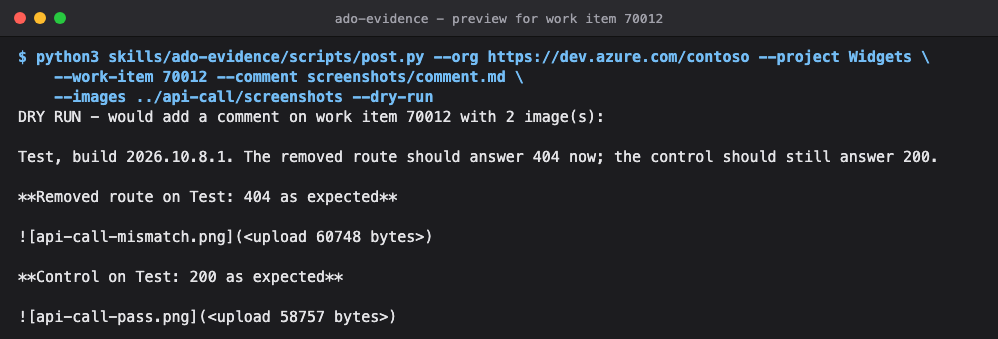
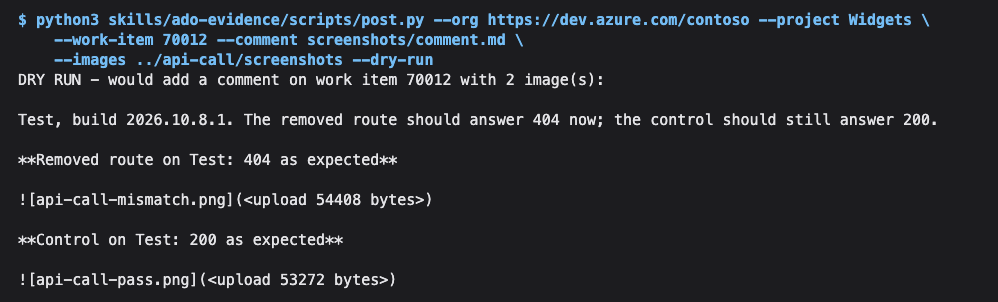
Draw screenshots with no title bar unless --frame asks for one
The window chrome on an api-call screenshot was decoration: the image is
drawn from the record, not captured from a window, and the bar made it
look like a screenshot of one system's window. A screenshot is now the
terminal's content alone. --frame native adds the title bar of the
system the capture is taken on, and --frame windows, mac or linux adds
that one wherever it runs. 0.2.7's --frame auto is gone; native does
what it did.

With no title bar to carry it, a label given with --label opens the
image as its first line; the default label, the environment's name, is
shown in the body already. The mod screenshots in tools/screenshots keep
their title bar, since they are real terminal sessions.

api-call 0.2.8, ado-evidence 0.1.6, whose demo has no title bar either.
Tests: api-call 264, ado-evidence 54, context-bar 100.

Claude-Session: https://claude.ai/code/session_01RRQNu8KybTM94LYvT61M9Z

diff --git a/skills/api-call/skills/api-call/scripts/frame.html b/skills/api-call/skills/api-call/scripts/frame.html
@@ -1,10 +1,11 @@
-<!doctype html><!-- The terminal window frame. The title placeholder takes the escaped title, the body placeholder the HTML inside the pre: lines joined by line breaks, or one element of class row per line, which render.py draws. The look placeholder takes mac, windows or linux: the window's title bar and fonts, drawn as that system draws a dark terminal window. Every look's bar is 36px with a 1px border, so a capture is 37px of title bar, 22px of padding and 20px per row in each, as tools/screenshots/render.mjs counts them. The title, the pre and every row are drawn left to right in the order their characters are written, so no right-to-left letter can reorder them; the title and a row are cut with an ellipsis where they overflow, and a row is clipped to its 20px, so nothing drawn in one can reach another. --><meta charset="utf-8"><style>
+<!doctype html><!-- The terminal window frame. The title placeholder takes the escaped title, the body placeholder the HTML inside the pre: lines joined by line breaks, or one element of class row per line, which render.py draws. The look placeholder takes none, mac, windows or linux. none draws no title bar, only the terminal's content; the others draw the title bar and fonts of that system's dark terminal window. Their bar is 36px with a 1px border, so a capture is 37px of title bar (0 with none), 22px of padding and 20px per row, as render.py and tools/screenshots/render.mjs count them. The title, the pre and every row are drawn left to right in the order their characters are written, so no right-to-left letter can reorder them; the title and a row are cut with an ellipsis where they overflow, and a row is clipped to its 20px, so nothing drawn in one can reach another. --><meta charset="utf-8"><style>
 html,body{margin:0;background:#1c1c1f}
 .bar{height:36px;display:flex;align-items:center;position:relative;background:#2a2a2e;border-bottom:1px solid #111}
 .title{flex:1;min-width:0;color:#a1a1aa;font:13px "SF Mono",Menlo,"Cascadia Mono",Consolas,monospace;white-space:pre;overflow:hidden;text-overflow:ellipsis;direction:ltr;unicode-bidi:bidi-override}
 pre{margin:0;padding:10px 18px 12px;color:#e4e4e7;font:15px/20px "SF Mono",Menlo,"Cascadia Mono",Consolas,monospace;white-space:pre;direction:ltr;unicode-bidi:bidi-override}
 .row{display:block;height:20px;overflow:hidden;text-overflow:ellipsis;direction:ltr;unicode-bidi:bidi-override}
 .dots,.controls{display:none}
+.none .bar{display:none}
 .controls i{display:block;position:relative}
 .mac .dots{display:flex;position:absolute;left:14px;gap:8px}.mac .dots i{width:12px;height:12px;border-radius:50%;display:block}
 .mac .title{padding:0 80px;text-align:center}

diff --git a/skills/api-call/tests/test_render.py b/skills/api-call/tests/test_render.py
@@ -131,7 +131,7 @@ class DisplayWidth(unittest.TestCase):
             # 60 characters by len(), 120 cells: not clipped, and twice as wide as len() would make it.
             rows = render.rows({**RECORD, "body": "日" * 60})
             _, browser = drawn({**RECORD, "body": "日" * 60}, Path(tmp) / "cjk.png")
-            self.assertEqual(browser.window(), (round(120 * 9.2) + 60, 37 + 22 + len(rows) * 20))
+            self.assertEqual(browser.window(), (round(120 * 9.2) + 60, 22 + len(rows) * 20))  # no title bar by default
             _, browser = drawn(RECORD, Path(tmp) / "plain.png")
             self.assertEqual(browser.window()[0], 720)
             _, browser = drawn({**RECORD, "body": "日" * 200}, Path(tmp) / "wide.png")
@@ -525,7 +525,7 @@ class Round3Driver(unittest.TestCase):
             page = (Path(tmp) / "r.html").read_text(encoding="utf-8")
         self.assertIn('<div class="title">E2E {{body}} - GET /repos/x/y/languages</div>', page)
         self.assertEqual(page.count("the body {{title}}"), 1)
-        self.assertEqual(page.count('class="row"'), len(render.rows(record)))
+        self.assertEqual(page.count('class="row"'), len(render.drawn_rows(record)))  # the label opens the image
 
     def test_driver_each_row_is_a_block_of_its_own(self):
         self.assertEqual(render.markup([("dim", "a <b>"), (None, ""), ("bad", "x & y")]),
@@ -662,28 +662,49 @@ MEASURE = """<script>(() => {
 
 
 class WindowFrame(unittest.TestCase):
-    """The capture's window frame follows the system it is taken on, unless --frame names one: a screenshot taken on
-    Windows used to draw the macOS frame, traffic-light dots and all."""
+    """--frame: by default no title bar, only the terminal's content; native draws the title bar of the system the
+    capture is taken on; mac, windows or linux name one. A screenshot taken on Windows used to draw the macOS frame."""
 
-    def test_auto_follows_the_system(self):
+    def test_no_title_bar_unless_asked(self):
+        self.assertEqual(render.look_for(), "none")
+        self.assertEqual(render.look_for("none"), "none")
+
+    def test_native_follows_the_system(self):
         for platform, look in (("win32", "windows"), ("cygwin", "windows"), ("darwin", "mac"), ("linux", "linux")):
             with self.subTest(platform=platform), patch.object(render.sys, "platform", platform):
-                self.assertEqual(render.look_for(), look)
-                self.assertEqual(render.look_for("auto"), look)
+                self.assertEqual(render.look_for("native"), look)
 
     def test_a_named_frame_is_used_and_an_unknown_one_refused(self):
         for look in render.LOOKS:
             self.assertEqual(render.look_for(look), look)
-        with self.assertRaises(render.Problem):
-            render.look_for("beos")
+        for bad in ("beos", "auto", ""):
+            with self.subTest(bad=bad), self.assertRaises(render.Problem):
+                render.look_for(bad)
 
     def test_each_look_fills_the_frame(self):
-        for look in render.LOOKS:
+        for look in ("none",) + render.LOOKS:
             with self.subTest(look=look):
                 page = render.page("A {{look}} title", "<span>body</span>", look)
                 self.assertIn(f'<div class="window {look}">', page)
                 self.assertIn("A {{look}} title", page)  # a placeholder in the title is drawn as text
                 self.assertEqual(page.count("{{"), 1)
+
+    def test_only_a_title_bar_adds_to_the_height(self):
+        drawn = render.rows(RECORD)
+        self.assertEqual(render.size(drawn, "none")[1], render.PADDING + len(drawn) * render.ROW)
+        for look in render.LOOKS:
+            self.assertEqual(render.size(drawn, look)[1], render.TITLE_BAR + render.PADDING + len(drawn) * render.ROW)
+
+    def test_with_no_title_bar_a_label_or_title_opens_the_image(self):
+        plain = render.rows(RECORD)
+        labelled = {**RECORD, "label": "Before: Prod (current release)"}
+        self.assertEqual(render.drawn_rows(labelled), [("head", "Before: Prod (current release)")] + plain)
+        self.assertEqual(render.drawn_rows(RECORD, "A title of my own")[0], ("head", "A title of my own"))
+        # the default label is the environment's name, which the image shows already
+        self.assertEqual(render.drawn_rows({**RECORD, "label": RECORD["environment"]}), plain)
+        self.assertEqual(render.drawn_rows(RECORD), plain)
+        # with a title bar, the label is the bar's title and not a line
+        self.assertEqual(render.drawn_rows(labelled, look="mac"), plain)
 
 class InTheBrowser(unittest.TestCase):
     """Round 3: what the browser draws from the page render() writes, checked in the real browser, since only it can
@@ -733,12 +754,12 @@ class InTheBrowser(unittest.TestCase):
         return laid
 
     def test_each_frame_keeps_the_bar_height_and_places_its_title(self):
-        # Every look's bar is 37px, so the rows sit where size() counts them; the Windows title starts at the left, as
-        # Windows draws it, and the macOS and Linux titles are centred.
+        # A title bar is 37px in every look and none has no bar, so the rows sit where size() counts them. The Windows
+        # title starts at the left, as Windows draws it; the macOS and Linux titles are centred.
         title = "Frame check - GET /x"
+        record = {**RECORD, "label": "Frame check", "path": "/x"}
         for look in render.LOOKS:
             with self.subTest(look=look):
-                record = {**RECORD, "label": "Frame check", "path": "/x"}
                 laid = self.measure(record, f"frame-{look}", [title], look)
                 self.assertEqual(laid["rows"][0]["top"], render.TITLE_BAR + 10)
                 left = laid["at"][title]["lefts"][0]
@@ -746,6 +767,9 @@ class InTheBrowser(unittest.TestCase):
                     self.assertLess(left, 40)
                 else:
                     self.assertGreater(left, 80)
+        laid = self.measure(record, "frame-none", [], "none")
+        self.assertEqual(laid["rows"][0]["top"], 10)
+        self.assertEqual(laid["rows"][0]["text"], "Frame check")
 
     def test_driver_each_row_is_a_clipped_block_of_one_row(self):
         record = {**RECORD, "body": WIDE_LINES[0] + "\nnext"}
@@ -755,7 +779,7 @@ class InTheBrowser(unittest.TestCase):
             with self.subTest(row=i):
                 self.assertEqual(row["text"], text)
                 self.assertEqual(row["display"], "block")
-                self.assertEqual((row["top"], row["height"]), (render.TITLE_BAR + 10 + i * render.ROW, render.ROW))
+                self.assertEqual((row["top"], row["height"]), (render.bar("none") + 10 + i * render.ROW, render.ROW))
                 self.assertEqual((row["overflowX"], row["overflowY"], row["textOverflow"]), ("hidden", "hidden", "ellipsis"))
                 self.assertEqual((row["bidi"], row["direction"]), ("bidi-override", "ltr"))
                 self.assertLessEqual(row["right"], laid["width"] - 18)  # inside the window and its padding
@@ -781,7 +805,7 @@ class InTheBrowser(unittest.TestCase):
                    "\u0627\u0644\u0639\u062f\u062f \u0661\u0662\u0663 = 123", "\u05d1\u05d3\u05d9\u05e7\u05d4 1 2 - GET"]
         record = {**RECORD, "label": "\u05d1\u05d3\u05d9\u05e7\u05d4 1 2", "body": '{"\u05d0": 1, "amount": "\u05d1 100 200"}',
                   "response_headers": {"X-Note": targets[2], "X-Arabic": targets[3]}}
-        laid = self.measure(record, "bidi", targets)
+        laid = self.measure(record, "bidi", targets, "mac")  # a title bar, so the title is drawn and checked too
         for target in targets:
             with self.subTest(target=target):
                 lefts = laid["at"][target]["lefts"]
@@ -796,7 +820,7 @@ class InTheBrowser(unittest.TestCase):
         (tall_png, tall_size), (flat_png, flat_size) = self.shoot(tall, "tall"), self.shoot(flat, "flat")
         self.assertEqual(tall_size, flat_size)
         a, b = png_rows(tall_png.read_bytes()), png_rows(flat_png.read_bytes())
-        top = render.TITLE_BAR + 10 + k * render.ROW
+        top = render.bar("none") + 10 + k * render.ROW
         self.assertEqual([y for y in range(len(a)) if not top <= y < top + render.ROW and a[y] != b[y]], [])
         self.assertNotEqual(a[top:top + render.ROW], b[top:top + render.ROW])  # the marks are drawn, in their row
 

diff --git a/skills/api-call/skills/api-call/scripts/render.py b/skills/api-call/skills/api-call/scripts/render.py
@@ -1,7 +1,7 @@
 """Draws an api-call record in the terminal window frame and captures it with headless Chrome.
 
 Usage:
-  python3 render.py RECORD.json [--out FILE.png] [--title TEXT] [--frame auto|mac|windows|linux]
+  python3 render.py RECORD.json [--out FILE.png] [--title TEXT] [--frame none|native|mac|windows|linux]
 
 Writes the image and, beside it, the .html page it was captured from; the default name is the record's with .png.
 The frame is frame.html next to this script, which tools/screenshots in this repository shares.
@@ -15,7 +15,7 @@ FRAME = HERE / "frame.html"
 TITLE_BAR, PADDING, ROW = 37, 22, 20  # pixels: what a capture's height is made of
 CELL, MARGIN, MIN_WIDTH, MAX_WIDTH = 9.2, 60, 720, 1600  # pixels: a monospace cell, and what a capture's width is made of
 WIDTH, LINES = 150, 40  # cells a row is cut to, and lines a body is cut to
-COLORS = {"dim": "color:#a1a1aa", "req": "color:#74bdf5;font-weight:700",
+COLORS = {"head": "color:#e4e4e7;font-weight:700", "dim": "color:#a1a1aa", "req": "color:#74bdf5;font-weight:700",
           "ok": "color:#98c379;font-weight:700", "bad": "color:#ef7b85;font-weight:700"}
 
 # A JSON text's tokens as RFC 8259 writes them, and the whitespace it allows between them. NaN, Infinity and -Infinity
@@ -34,7 +34,8 @@ IGNORABLE = ((0x034F, 0x034F), (0x115F, 0x1160), (0x17B4, 0x17B5), (0x180B, 0x18
 BLANK = "\u2800"  # the Braille pattern with no dots: a symbol (So) that draws as a space
 OBJECT = "\ufffc"  # the object replacement character: a symbol (So) that many fonts draw as a space
 PLACEHOLDER = re.compile(r"\{\{(title|body|look)\}\}")  # what page() fills in frame.html
-LOOKS = ("mac", "windows", "linux")  # the window frames frame.html draws
+LOOKS = ("mac", "windows", "linux")  # the title bars frame.html draws
+FRAMES = ("none", "native") + LOOKS  # what --frame takes: no title bar (the default), this system's, or a named one
 
 
 class Problem(Exception):
@@ -266,10 +267,16 @@ def rows(r):
     return [(c, clip(visible(t, WIDTH))) for c, t in out]
 
 
-def size(drawn):
-    """The window's (width, height) in pixels for the rows drawn: a cell per display cell of the widest row, plus the margins."""
+def bar(look):
+    """The title bar's height in pixels for a look: none draws no bar."""
+    return 0 if look == "none" else TITLE_BAR
+
+
+def size(drawn, look="none"):
+    """The window's (width, height) in pixels for the rows drawn: a cell per display cell of the widest row, plus the
+    margins, and the title bar the look draws."""
     width = min(MAX_WIDTH, max(MIN_WIDTH, round(max(cells(t) for _, t in drawn) * CELL) + MARGIN))
-    return width, TITLE_BAR + PADDING + len(drawn) * ROW
+    return width, bar(look) + PADDING + len(drawn) * ROW
 
 
 def title_for(r):
@@ -287,15 +294,28 @@ def markup(drawn):
 
 
 def look_for(frame=None):
-    """The window frame to draw: mac, windows or linux. auto, or none given, is the system this runs on, so a capture
-    taken on Windows looks like a Windows window."""
-    if frame in (None, "auto"):
+    """The look to draw for a --frame value: none (the default, no title bar, only the terminal's content), native (the
+    title bar of the system this runs on), or mac, windows or linux by name."""
+    if frame in (None, "none"):
+        return "none"
+    if frame == "native":
         if sys.platform.startswith("win") or sys.platform == "cygwin":
             return "windows"
         return "mac" if sys.platform == "darwin" else "linux"
     if frame not in LOOKS:
-        raise Problem(f"the frame must be auto, {', '.join(LOOKS)}, not {frame!r}")
+        raise Problem(f"the frame must be one of {', '.join(FRAMES)}, not {frame!r}")
     return frame
+
+
+def drawn_rows(r, title=None, look="none"):
+    """The rows the image draws. With no title bar to carry it, a title given here or a label given with call.py's
+    --label opens the image as a line of its own; the default label, the environment's name, is shown below already."""
+    drawn = rows(r)
+    label = r.get("label")
+    heading = title or (label if label and label != r.get("environment") else None)
+    if look == "none" and heading:
+        drawn = [("head", clip(visible(heading, WIDTH)))] + drawn
+    return drawn
 
 
 def page(title, body, frame=None):
@@ -311,13 +331,14 @@ def render(r, png, title=None, frame=None):
     png as an absolute path.
     Raises Problem when no browser is found or the browser does not deliver the image."""
     png = Path(png).resolve()  # the page is given to the browser as a file URI, which only an absolute path has
-    drawn = rows(r)
+    look = look_for(frame)
+    drawn = drawn_rows(r, title, look)
     body = markup(drawn)
     page_file = png.with_suffix(".html")
     # Encoded before the file is opened, so a character UTF-8 cannot hold never leaves the page cut short; visible()
     # has shown every lone surrogate already, and backslashreplace would write one the same way.
-    page_file.write_bytes(page(title or title_for(r), body, frame).encode("utf-8", "backslashreplace"))
-    width, height = size(drawn)
+    page_file.write_bytes(page(title or title_for(r), body, look).encode("utf-8", "backslashreplace"))
+    width, height = size(drawn, look)
     if png.exists():
         png.unlink()
     try:
@@ -340,8 +361,8 @@ def main():
     p.add_argument("record")
     p.add_argument("--out")
     p.add_argument("--title")
-    p.add_argument("--frame", choices=("auto",) + LOOKS, default="auto",
-                   help="the window frame: auto (the system this runs on), mac, windows or linux")
+    p.add_argument("--frame", choices=FRAMES, default="none",
+                   help="the title bar: none (the default), native (this system's), or mac, windows or linux")
     args = p.parse_args()
     record = Path(args.record)
     r = json.loads(record.read_text(encoding="utf-8"))

diff --git a/skills/ado-evidence/screenshots/shoot.py b/skills/ado-evidence/screenshots/shoot.py
@@ -20,7 +20,7 @@ IMAGES = PLUGIN.parent / "api-call/screenshots"
 FRAME = PLUGIN.parent / "api-call/skills/api-call/scripts/frame.html"
 PNG = HERE / "ado-evidence-dry-run.png"
 ORG, PROJECT, WORK_ITEM = "https://dev.azure.com/contoso", "Widgets", "70012"
-TITLE_BAR, PADDING, ROW = 37, 22, 20  # pixels, as api-call's render.py counts them
+PADDING, ROW = 22, 20  # pixels, as api-call's render.py counts them; the demo draws no title bar
 
 
 def chrome():
@@ -75,15 +75,14 @@ def main():
     colors = {"cmd": "color:#74bdf5;font-weight:700"}
     body = "\n".join(f'<span style="{colors[c]}">{html.escape(t)}</span>' if c else html.escape(t) for c, t in rows)
     # One pass, so a {{body}} inside the title is not filled with the body.
-    # The look follows the system this runs on, as api-call's render.py picks it.
-    look = "windows" if sys.platform.startswith("win") or sys.platform == "cygwin" else "mac" if sys.platform == "darwin" else "linux"
-    fill = {"title": html.escape(f"ado-evidence - preview for work item {WORK_ITEM}"), "body": body, "look": look}
+    # No title bar, as api-call draws its screenshots by default: the terminal's content alone.
+    fill = {"title": html.escape(f"ado-evidence - preview for work item {WORK_ITEM}"), "body": body, "look": "none"}
     page = re.sub(r"\{\{(title|body|look)\}\}", lambda m: fill[m.group(1)], FRAME.read_text(encoding="utf-8"))
     page_file = PNG.with_suffix(".html")
     page_file.write_text(page, encoding="utf-8")
 
     width = min(1600, max(720, round(max(len(t) for _, t in rows) * 9.2) + 60))
-    height = TITLE_BAR + PADDING + len(rows) * ROW
+    height = PADDING + len(rows) * ROW
     if PNG.exists():
         PNG.unlink()
     subprocess.run([chrome(), "--headless=new", "--disable-gpu", "--hide-scrollbars",

diff --git a/skills/api-call/tests/test_call.py b/skills/api-call/tests/test_call.py
@@ -182,13 +182,16 @@ class CallPy(unittest.TestCase):
         self.assertFalse((self.out / "step.png").exists())
 
     def test_frame_reaches_the_page(self):
-        for look in ("windows", "linux", "mac"):
-            with self.subTest(look=look):
-                proc = self.call(RECORD, "--shot", "--frame", look)
+        native = {"darwin": "mac"}.get(sys.platform, "windows" if sys.platform.startswith("win") or sys.platform == "cygwin" else "linux")
+        for flags, look in (((), "none"), (("--frame", "none"), "none"), (("--frame", "native"), native),
+                            (("--frame", "windows"), "windows"), (("--frame", "linux"), "linux"), (("--frame", "mac"), "mac")):
+            with self.subTest(flags=flags):
+                proc = self.call(RECORD, "--shot", *flags)
                 self.assertEqual(proc.returncode, 0, proc.stderr)
                 self.assertIn(f'<div class="window {look}">', (self.out / "step.html").read_text(encoding="utf-8"))
-        proc = self.call(RECORD, "--shot", "--frame", "beos")
-        self.assertEqual(proc.returncode, 2, proc.stderr)  # argparse refuses an unknown frame
+        for bad in ("beos", "auto"):
+            proc = self.call(RECORD, "--shot", "--frame", bad)
+            self.assertEqual(proc.returncode, 2, proc.stderr)  # argparse refuses an unknown frame
 
     def test_a_screenshot_is_added_to_the_record(self):
         proc = self.call(RECORD, "--expect", "200", "--shot", "--label", "After: Test")

diff --git a/skills/api-call/skills/api-call/scripts/call.py b/skills/api-call/skills/api-call/scripts/call.py
@@ -8,8 +8,8 @@ Options:
   --warm               send the call once untimed first, so a cold start does not show
   --label TEXT         the window title's lead, e.g. "After: Test"; the environment's name otherwise
   --shot               also draw the exchange and capture it as NAME.png
-  --frame LOOK         the screenshot's window frame: auto (the system this runs on, the default), mac, windows
-                       or linux
+  --frame BAR          the screenshot's title bar: none (the default, the terminal's content alone), native (the
+                       title bar of the system this runs on), or mac, windows or linux
   --folder NAME        the collection's top-level folder that carries the auth, when it has more than one
   --base-url-var NAME  the variable holding the base URL (default baseUrl)
   --timeout SECONDS    how long to wait for the response (default 60)
@@ -44,7 +44,7 @@ p.add_argument("--expect", type=int)
 p.add_argument("--warm", action="store_true")
 p.add_argument("--label")
 p.add_argument("--shot", action="store_true")
-p.add_argument("--frame", choices=("auto", "mac", "windows", "linux"), default="auto")
+p.add_argument("--frame", choices=("none", "native", "mac", "windows", "linux"), default="none")
 p.add_argument("--folder")
 p.add_argument("--base-url-var", default="baseUrl")
 p.add_argument("--timeout", type=int, default=60)

diff --git a/skills/api-call/README.md b/skills/api-call/README.md
@@ -1,14 +1,14 @@
 # API call
 
-Calls an API the way your Insomnia or Postman collection would, with the collection's environment, auth and client certificate, and records the exchange as JSON with every secret masked. Ask for a screenshot and it draws the request and the response in a terminal window frame. What happens to the record and the image is up to you, or to Claude: post them on a work item, attach them to a pull request, keep them as evidence.
+Calls an API the way your Insomnia or Postman collection would, with the collection's environment, auth and client certificate, and records the exchange as JSON with every secret masked. Ask for a screenshot and it draws the request and the response as a terminal shows them. What happens to the record and the image is up to you, or to Claude: post them on a work item, attach them to a pull request, keep them as evidence.
 
 It comes as a skill: ask Claude to run a ticket's API test steps, to check an endpoint in an environment, or to compare one before and after a release, and it runs the calls, tells you what came back, and shows you the images. The scripts also run on their own.
 
 ## How it works
 
 1. A source resolves the request, sends it, and prints the record. `sources/insomnia.ps1` reads Insomnia's local data (read-only): the base URL and variables from a global environment, with the top-level folder's own environment laid over it as Insomnia does, the API key or bearer auth on that folder, its headers, and the client certificate the collection holds for the host. `sources/postman.py` reads a Postman environment export and a collection export: their variables, and the API key, bearer or basic auth on the collection or on a top-level folder. Each keeps every secret inside its own process and refuses to print anything that would contain one.
-2. `call.py` runs the source, checks the status against `--expect`, and writes the record as `<name>.json`. With `--shot`, it draws the record in a terminal window frame and captures it with headless Chrome as `<name>.png`. The frame looks like the system the capture is taken on: a Windows window on Windows, a macOS window on a Mac, a GNOME window on Linux.
-3. `render.py` is that drawing on its own: a record in, an image out. Its `frame.html` holds the three window frames, which [`tools/screenshots`](../../tools/screenshots/) in this repository shares.
+2. `call.py` runs the source, checks the status against `--expect`, and writes the record as `<name>.json`. With `--shot`, it draws the record as a terminal shows it and captures it with headless Chrome as `<name>.png`. By default there is no title bar, only the terminal's content; `--frame` adds one.
+3. `render.py` is that drawing on its own: a record in, an image out. Its `frame.html` holds the terminal's look and the optional title bars, which [`tools/screenshots`](../../tools/screenshots/) in this repository shares.
 
 ## The record
 
@@ -83,7 +83,7 @@ python3 skills/api-call/scripts/render.py shots/widget.json --title "After: Test
 | `--expect CODE` | The status the step should return. A mismatch exits 3; the record and the image are still written. |
 | `--warm` | Sends once untimed first, so a cold start does not show in the timing. |
 | `--shot` | Draws the exchange and captures it as `<name>.png`, with its `.html` page beside it. The record is written first, so if the capture fails the record is kept, without `png`, and the script exits 1 with a message naming the record and the status. |
-| `--frame LOOK` | The screenshot's window frame: `windows`, `mac` or `linux`. The default, `auto`, is the system the capture is taken on. `render.py` takes the same flag. |
+| `--frame BAR` | A title bar for the screenshot. Without it there is none, only the terminal's content, and a label given with `--label` opens the image as a line of its own. `native` draws the title bar of the system the capture is taken on: Windows, macOS or GNOME on Linux. `windows`, `mac` or `linux` draws that one wherever the capture runs. `render.py` takes the same flag. |
 | `--label TEXT` | Leads the image's title, such as `After: Test`; the environment's name otherwise. |
 | `--folder NAME` | The collection's top-level folder that carries the auth, when more than one does. The Insomnia source uses a folder's environment and headers only when it carries auth or is named here. |
 | `--base-url-var NAME` | The variable holding the base URL, when it is not `baseUrl`. Variable names are case-sensitive. When the one named is not defined, the one variable whose name matches it ignoring case is used, such as `baseURL`; with two or more, the message names them. The Insomnia source does this only for `baseUrl`. |

diff --git a/skills/api-call/skills/api-call/SKILL.md b/skills/api-call/skills/api-call/SKILL.md
@@ -31,7 +31,7 @@ python3 <base>/scripts/call.py --via insomnia --env "API - Test" --collection "A
 
 ## What comes out
 
-`<dir>/<name>.json` is the record: the source, environment and collection, the method and path, the URL and request headers as sent with every credential as `********`, the client certificate's file name, the status, how long it took, when it was sent, the response headers and the body. With `--shot`, `<dir>/<name>.png` draws the same, in a window frame that looks like the system it was taken on, and the `.html` it was captured from sits beside it. `--frame windows`, `mac` or `linux` picks another, for example to match the team that will read the evidence. The script prints one line of JSON with the status, the verdict and the file paths.
+`<dir>/<name>.json` is the record: the source, environment and collection, the method and path, the URL and request headers as sent with every credential as `********`, the client certificate's file name, the status, how long it took, when it was sent, the response headers and the body. With `--shot`, `<dir>/<name>.png` draws the same as a terminal shows it, with no title bar, and the `.html` it was captured from sits beside it. A `--label` opens the image as its first line. Add `--frame native` only when the user asks for a window title bar, or `--frame windows`, `mac` or `linux` for a particular one. The script prints one line of JSON with the status, the verdict and the file paths.
 
 A credential is an API key's value, a bearer token, a basic-auth password, a templated header value other than a standard one such as `Accept` or `Content-Type`, or a password in the base URL, with every value substituted into it. A user that goes with no password, as in `https://TOKEN@host`, is one too. Hosts, paths, header names, key names and usernames beside a password are configuration, shown as resolved. So a key written into the base URL's path or query shows in the record and the image. A key belongs in the auth, as an API key in a query parameter. If a collection keeps one in the base URL, tell the user so.
 

diff --git a/CHANGELOG.md b/CHANGELOG.md
@@ -34,6 +34,11 @@ To take a new version: `claude plugin marketplace update davidlambl`, then `clau
 
 Replaces api-shots, which was published briefly at 0.1.0 and 0.1.1 and did the same job for Insomnia only, with Azure DevOps posting built in. The posting half is now [ado-evidence](skills/ado-evidence/).
 
+### 0.2.8 — 2026-10-13
+
+- A screenshot has no title bar by default, only the terminal's content, so it no longer looks like a window from any one system. A label given with `--label` opens the image as its first line instead.
+- `--frame native` draws the title bar of the system the capture is taken on, and `--frame windows`, `mac` or `linux` draws that one. `--frame auto`, from 0.2.7, is gone: `native` does what it did.
+
 ### 0.2.7 — 2026-10-13
 
 - A screenshot's window frame looks like the system it is taken on: a Windows window on Windows, a macOS window on a Mac, a GNOME window on Linux. It was always the macOS frame. `--frame windows`, `mac` or `linux` picks another, on `call.py` and `render.py`.
@@ -149,6 +154,10 @@ In the docs:
 ## ado-evidence
 
 Split out of api-shots, so that where the records and images go is the user's choice.
+
+### 0.1.6 — 2026-10-13
+
+- The demo screenshot has no title bar, as api-call's screenshots have by default.
 
 ### 0.1.5 — 2026-10-13
 
